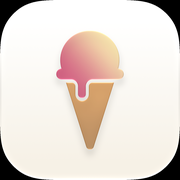
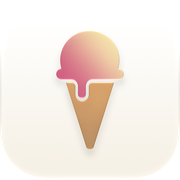
Tela de entrada obrigatória (entrar/criar conta) antes de qualquer tela; ícones voltam a ter cantos transparentes

diff --git a/index.html b/index.html
@@ -24,8 +24,8 @@
   if (navigator.standalone || (window.matchMedia && matchMedia("(display-mode: standalone)").matches)) r.classList.add("instalado"); })();
 </script>
 <style>html.carregando #abas{visibility:hidden}</style>
-<link rel="stylesheet" href="css/estilo.css?v=20261121093730" />
-<link rel="stylesheet" href="css/app.css?v=20261121093730" />
+<link rel="stylesheet" href="css/estilo.css?v=20261123113658" />
+<link rel="stylesheet" href="css/app.css?v=20261123113658" />
 </head>
 <body class="ui">
 <header class="barra-topo">
@@ -46,6 +46,6 @@
   <a href="#/receitas" data-aba="receitas" aria-label="Receitas"><svg viewBox="0 0 21.6826 18.1462" fill="currentColor" aria-hidden="true"><path d="M0 16.5153C0 17.3065 0.526178 17.6154 1.1022 17.6154C1.43171 17.6154 1.7156 17.431 2.09476 17.1946C3.17233 16.4728 4.48846 16.0215 5.84047 16.0318C7.25589 16.0318 8.6506 16.5621 9.74525 17.6075C10.1741 17.9991 10.4808 18.1276 10.8413 18.1276C11.2019 18.1276 11.5211 17.997 11.9374 17.6075C13.0342 16.5663 14.4268 16.0318 15.8422 16.0318C17.1942 16.0215 18.5207 16.4728 19.5879 17.1946C19.9649 17.431 20.2509 17.6154 20.5887 17.6154C21.1565 17.6154 21.6826 17.3065 21.6826 16.5153L21.6826 3.26527C21.6826 3.09906 21.6681 2.96219 21.5684 2.79196C20.694 1.28248 18.4971-3.55271e-15 15.8008-3.55271e-15C13.6715-3.55271e-15 11.8298 0.841614 10.8413 2.04269C9.85289 0.841614 8.00907-3.55271e-15 5.88187-3.55271e-15C3.19593-3.55271e-15 0.988634 1.28248 0.114259 2.79196C0.0145711 2.96219 0 3.09906 0 3.26527ZM1.57069 15.6774L1.57069 3.47842C2.36628 2.33543 4.08458 1.56858 5.88187 1.56858C7.74146 1.56858 9.36369 2.34578 10.056 3.54514L10.056 15.848C9.06774 15.0503 7.50741 14.4529 5.88187 14.4529C4.18347 14.4529 2.60877 14.9354 1.57069 15.6774ZM11.6267 15.848L11.6267 3.54514C12.319 2.34578 13.9494 1.56858 15.8008 1.56858C17.596 1.56858 19.3267 2.33543 20.112 3.47842L20.112 15.6774C19.0842 14.9354 17.4992 14.4529 15.8008 14.4529C14.1752 14.4529 12.6231 15.0503 11.6267 15.848Z"/></svg><span>Receitas</span></a>
   <a href="#/biblioteca" data-aba="biblioteca" aria-label="Biblioteca"><svg viewBox="0 0 24.1253 22.2743" fill="currentColor" aria-hidden="true"><path d="M0 19.3516C0 20.853 0.723643 21.6018 2.22941 21.6018L15.5646 21.6018C17.0579 21.6018 17.7816 20.853 17.7816 19.3516L17.7816 2.23976C17.7816 0.746655 17.0579 0 15.5646 0L13.6512 0C12.1454 0 11.4218 0.746655 11.4218 2.23976L11.4218 6.13089C11.2017 6.06838 10.9525 6.03713 10.6802 6.03713L6.43277 6.03713C6.13984 6.03713 5.89062 6.06838 5.68089 6.13089L5.68089 4.946C5.68089 3.4529 4.9469 2.70624 3.46183 2.70624L2.22941 2.70624C0.723643 2.70624 0 3.4529 0 4.946ZM1.47754 19.2336L1.47754 5.06197C1.47754 4.48877 1.77429 4.17343 2.37854 4.17343L3.292 4.17343C3.9066 4.17343 4.20336 4.48877 4.20336 5.06197L4.20336 20.1242L2.37854 20.1242C1.77429 20.1242 1.47754 19.8171 1.47754 19.2336ZM5.68089 20.1242L5.68089 8.39497C5.68089 7.82177 5.97764 7.51467 6.5819 7.51467L10.5208 7.51467C11.1354 7.51467 11.4218 7.82177 11.4218 8.39497L11.4218 20.1242ZM12.8993 20.1242L12.8993 2.35784C12.8993 1.78464 13.2064 1.46719 13.8107 1.46719L15.4052 1.46719C16.0198 1.46719 16.3062 1.78464 16.3062 2.35784L16.3062 19.2336C16.3062 19.8171 16.0198 20.1242 15.4052 20.1242ZM6.55818 9.40411C6.55818 9.74819 6.81524 10.0135 7.17178 10.0135L9.95157 10.0135C10.2978 10.0135 10.5548 9.74819 10.5548 9.40411C10.5548 9.07037 10.2978 8.81543 9.95157 8.81543L7.17178 8.81543C6.81524 8.81543 6.55818 9.07037 6.55818 9.40411ZM6.55818 18.2244C6.55818 18.5685 6.81524 18.8338 7.17178 18.8338L9.95157 18.8338C10.2978 18.8338 10.5548 18.5685 10.5548 18.2244C10.5548 17.8928 10.2978 17.6357 9.95157 17.6357L7.17178 17.6357C6.81524 17.6357 6.55818 17.8928 6.55818 18.2244ZM18.6663 19.6317C18.8549 21.1102 19.6449 21.8092 21.13 21.5916L22.1509 21.4691C23.6463 21.2494 24.2601 20.4654 24.0922 18.9826L22.4154 4.37972C22.2474 2.90731 21.445 2.19593 19.9496 2.41561L18.9308 2.55057C17.425 2.762 16.8009 3.54393 16.977 5.03493ZM20.1107 19.3292L18.4649 4.97071C18.3944 4.39751 18.658 4.07584 19.2622 3.98459L19.9642 3.89314C20.5684 3.80189 20.8983 4.10689 20.9689 4.66763L22.6146 19.0283C22.6852 19.6118 22.4237 19.9314 21.8298 20.0226L21.1072 20.1141C20.5133 20.2053 20.1812 19.9128 20.1107 19.3292Z"/></svg><span>Biblioteca</span></a>
 </nav>
-<script type="module" src="js/app.js?v=20261121093730"></script>
+<script type="module" src="js/app.js?v=20261123113658"></script>
 </body>
 </html>

diff --git a/js/app.js b/js/app.js
@@ -8,21 +8,22 @@
   window.scrollTo = function(x, y){ rolaJanela.apply(null, arguments); if (typeof y === "number") document.body.scrollTop = y; };
 })();
 // Navegação do hub: cada área é uma "tela" escolhida pelo endereço (#/calculadora etc.).
-import { carrega, dados, salva, novoId } from "./dados.js?v=20261121093730";
-import { iniciaSync } from "./sync.js?v=20261121093730";
-import * as inicio from "./telas/inicio.js?v=20261121093730";
-import * as calculadora from "./telas/calculadora.js?v=20261121093730";
-import * as ingredientes from "./telas/ingredientes.js?v=20261121093730";
-import * as receitas from "./telas/receitas.js?v=20261121093730";
-import * as receita from "./telas/receita.js?v=20261121093730";
-import * as testes from "./telas/testes.js?v=20261121093730";
-import { icone, defineArmazemFotos } from "./visual.js?v=20261121093730";
-import * as loteTela from "./telas/lote.js?v=20261121093730";
-import * as estudo from "./telas/estudo.js?v=20261121093730";
-import * as ideias from "./telas/ideias.js?v=20261121093730";
-import * as ajustes from "./telas/ajustes.js?v=20261121093730";
-import * as biblioteca from "./telas/biblioteca.js?v=20261121093730";
-import * as guia from "./telas/guia.js?v=20261121093730";
+import { carrega, dados, salva, novoId } from "./dados.js?v=20261123113658";
+import { iniciaSync, situacao, aoMudar } from "./sync.js?v=20261123113658";
+import * as entrada from "./telas/entrada.js?v=20261123113658";
+import * as inicio from "./telas/inicio.js?v=20261123113658";
+import * as calculadora from "./telas/calculadora.js?v=20261123113658";
+import * as ingredientes from "./telas/ingredientes.js?v=20261123113658";
+import * as receitas from "./telas/receitas.js?v=20261123113658";
+import * as receita from "./telas/receita.js?v=20261123113658";
+import * as testes from "./telas/testes.js?v=20261123113658";
+import { icone, defineArmazemFotos } from "./visual.js?v=20261123113658";
+import * as loteTela from "./telas/lote.js?v=20261123113658";
+import * as estudo from "./telas/estudo.js?v=20261123113658";
+import * as ideias from "./telas/ideias.js?v=20261123113658";
+import * as ajustes from "./telas/ajustes.js?v=20261123113658";
+import * as biblioteca from "./telas/biblioteca.js?v=20261123113658";
+import * as guia from "./telas/guia.js?v=20261123113658";
 
 const TELAS = {
   "": inicio,
@@ -87,6 +88,17 @@ function direcao(atual){
 }
 
 function rota(){
+  // Sem login, só a tela de entrada: nenhuma outra tela abre.
+  const semLogin = !situacao().logado;
+  document.body.classList.toggle("sem-login", semLogin);
+  if (semLogin){
+    if (typeof limpa === "function") limpa(); limpa = null;
+    anterior = null; rota.ultimo = null;
+    elTela.innerHTML = ""; elTitulo.hidden = true; elVoltar.hidden = true;
+    document.title = "Ice Cream Lab";
+    entrada.render(elTela);
+    return;
+  }
   const partes = location.hash.replace(/^#\/?/, "").split("/");
   const nome = partes[0] || "";
   const args = partes.slice(1);
@@ -253,6 +265,9 @@ carrega();
 })();
 iniciaSync();
 window.addEventListener("hashchange", rota);
+// Entrou ou saiu da conta: troca entre a tela de entrada e o app.
+let logadoAntes = situacao().logado;
+aoMudar(function(s){ if (s.logado !== logadoAntes){ logadoAntes = s.logado; rota(); } });
 rota();
 // Primeira tela desenhada: mostra a barra de abas (escondida no index.html até aqui).
 requestAnimationFrame(function(){ document.documentElement.classList.remove("carregando"); });

diff --git a/js/telas/entrada.js b/js/telas/entrada.js
@@ -1,0 +1,38 @@
+// Entrada: tela obrigatória enquanto não há login. Entrar ou criar conta (Supabase, e-mail e senha).
+import { situacao, entrar, criarConta } from "../sync.js?v=20261123113658";
+
+function esc(s){ return String(s == null ? "" : s).replace(/[&<>"]/g, function(c){ return {"&":"&amp;","<":"&lt;",">":"&gt;",'"':"&quot;"}[c]; }); }
+
+export function render(el){
+  let modo = "entrar";
+  const desenha = function(){
+    const s = situacao(), criar = modo === "criar";
+    el.innerHTML =
+      '<div class="ui-tela entrada-tela">' +
+        '<img class="entrada-icone" src="icons/icon-192.png?v=5" alt="" width="96" height="96">' +
+        '<h1 class="entrada-titulo">Ice Cream Lab</h1>' +
+        '<p class="ui-sec entrada-sub">' + (criar ? 'Crie sua conta para começar.' : 'Entre na sua conta para continuar.') + '</p>' +
+        '<form class="ui-cartao ui-vidro entrada-cartao" novalidate>' +
+          '<input id="email" class="ui-campo campo-branco" type="email" autocomplete="username" inputmode="email" autocapitalize="off" placeholder="E-mail" aria-label="E-mail" required>' +
+          '<input id="senha" class="ui-campo campo-branco" type="password" autocomplete="' + (criar ? 'new-password' : 'current-password') + '" minlength="6" placeholder="Senha' + (criar ? ' (mínimo 6 caracteres)' : '') + '" aria-label="Senha" required>' +
+          '<span class="ui-sec ajustes-erro" id="erro"' + (s.erro ? '' : ' hidden') + '>' + esc(s.erro || "") + '</span>' +
+          '<button type="submit" class="ui-botao preto entrada-botao">' + (criar ? 'Criar conta' : 'Entrar') + '</button>' +
+        '</form>' +
+        '<button type="button" class="ui-botao vidro entrada-troca" id="troca">' + (criar ? 'Já tenho conta' : 'Criar conta') + '</button>' +
+      '</div>';
+    const f = el.querySelector("form"), elE = el.querySelector("#email"), elS = el.querySelector("#senha"), elErro = el.querySelector("#erro");
+    const mostra = function(t){ elErro.textContent = t; elErro.hidden = false; };
+    f.addEventListener("submit", async function(ev){
+      ev.preventDefault();
+      const email = elE.value.trim(), senha = elS.value;
+      if (!email){ elE.focus(); return; }
+      if (senha.length < 6){ mostra("A senha precisa ter pelo menos 6 caracteres."); elS.focus(); return; }
+      const b = f.querySelector("button"); b.disabled = true;
+      try { await (criar ? criarConta : entrar)(email, senha); }
+      catch (e) { mostra(e.message); b.disabled = false; }
+    });
+    el.querySelector("#troca").addEventListener("click", function(){ modo = criar ? "entrar" : "criar"; desenha(); });
+  };
+  desenha();
+  return {titulo:""};
+}

diff --git a/js/telas/ajustes.js b/js/telas/ajustes.js
@@ -1,12 +1,12 @@
 // Ajustes: conta (entrar/criar/sair), situação da sincronização e backup em arquivo.
-import { exportaBackup, importaBackup } from "../dados.js?v=20261121093730";
-import { situacao, aoMudar, entrar, criarConta, sair, sincroniza } from "../sync.js?v=20261121093730";
-import { confirma } from "../ui.js?v=20261121093730";
-import { toast } from "../app.js?v=20261121093730";
-import { dados, salva } from "../dados.js?v=20261121093730";
-import { capa, escolheCapa, icone } from "../visual.js?v=20261121093730";
-import { WIDGETS_BIBLIOTECA, capaBiblioteca } from "./biblioteca.js?v=20261121093730";
-import { WIDGETS_HOME, capaHome } from "./inicio.js?v=20261121093730";
+import { exportaBackup, importaBackup } from "../dados.js?v=20261123113658";
+import { situacao, aoMudar, entrar, criarConta, sair, sincroniza } from "../sync.js?v=20261123113658";
+import { confirma } from "../ui.js?v=20261123113658";
+import { toast } from "../app.js?v=20261123113658";
+import { dados, salva } from "../dados.js?v=20261123113658";
+import { capa, escolheCapa, icone } from "../visual.js?v=20261123113658";
+import { WIDGETS_BIBLIOTECA, capaBiblioteca } from "./biblioteca.js?v=20261123113658";
+import { WIDGETS_HOME, capaHome } from "./inicio.js?v=20261123113658";
 
 function esc(s){ return String(s == null ? "" : s).replace(/[&<>"]/g, function(c){ return {"&":"&amp;","<":"&lt;",">":"&gt;",'"':"&quot;"}[c]; }); }
 function hora(iso){ try { return new Date(iso).toLocaleString("pt-BR", {day:"2-digit", month:"short", hour:"2-digit", minute:"2-digit"}); } catch (e) { return ""; } }

diff --git a/js/telas/lote.js b/js/telas/lote.js
@@ -3,11 +3,11 @@
 //   2. Avaliar (horas depois, após maturar e endurecer): textura, dureza, doçura e nota, por toques.
 // Situações do lote: "em andamento" (preparando) → "aguardando" (falta avaliar) → "concluido".
 // Tudo é salvo a cada toque; se o app fechar, o lote volta onde parou. Tela acesa enquanto aberto.
-import { dados, salva, lote, receita, versao, versoesDe, ingrediente, excluiLote, passosPreparo } from "../dados.js?v=20261121093730";
-import { n, porUnidade, unidades, textoUnidades, qtdTexto } from "../calculo.js?v=20261121093730";
-import { confirma } from "../ui.js?v=20261121093730";
-import { atualizaVoltar } from "../app.js?v=20261121093730";
-import { icone, capa, aplicaTom, estrelasEscolha, DUREZA, DOCURA, docuraAtual, larguraOutro } from "../visual.js?v=20261121093730";
+import { dados, salva, lote, receita, versao, versoesDe, ingrediente, excluiLote, passosPreparo } from "../dados.js?v=20261123113658";
+import { n, porUnidade, unidades, textoUnidades, qtdTexto } from "../calculo.js?v=20261123113658";
+import { confirma } from "../ui.js?v=20261123113658";
+import { atualizaVoltar } from "../app.js?v=20261123113658";
+import { icone, capa, aplicaTom, estrelasEscolha, DUREZA, DOCURA, docuraAtual, larguraOutro } from "../visual.js?v=20261123113658";
 
 function esc(s){ return String(s == null ? "" : s).replace(/[&<>"]/g, function(c){ return {"&":"&amp;","<":"&lt;",">":"&gt;",'"':"&quot;"}[c]; }); }
 function hora(iso){ try { return new Date(iso).toLocaleTimeString("pt-BR", {hour:"2-digit", minute:"2-digit"}); } catch (e) { return ""; } }

diff --git a/js/telas/receita.js b/js/telas/receita.js
@@ -1,11 +1,11 @@
 // Página de uma receita: status, versões, modo de preparo e a receita pronta com escala.
 // Rotas: #/receita/<id> (versões e edição) e #/receita/<id>/pronta (para usar na bancada).
-import { dados, salva, receita, versao, versoesDe, excluiReceita, ingrediente, criaLote, passosPreparo } from "../dados.js?v=20261121093730";
-import { icone, capa, aplicaTom, estrelas, escolheCapa, DUREZA, DOCURA, docuraAtual, larguraOutro } from "../visual.js?v=20261121093730";
-import { confirma, LAPIS } from "../ui.js?v=20261121093730";
-import { atualizaVoltar } from "../app.js?v=20261121093730";
-import { resumoLote, cartaoLote, dataCurta as dataLote } from "./lote.js?v=20261121093730";
-import { calcula, NOMES_ESTILO, n, qtdTexto, porUnidade } from "../calculo.js?v=20261121093730";
+import { dados, salva, receita, versao, versoesDe, excluiReceita, ingrediente, criaLote, passosPreparo } from "../dados.js?v=20261123113658";
+import { icone, capa, aplicaTom, estrelas, escolheCapa, DUREZA, DOCURA, docuraAtual, larguraOutro } from "../visual.js?v=20261123113658";
+import { confirma, LAPIS } from "../ui.js?v=20261123113658";
+import { atualizaVoltar } from "../app.js?v=20261123113658";
+import { resumoLote, cartaoLote, dataCurta as dataLote } from "./lote.js?v=20261123113658";
+import { calcula, NOMES_ESTILO, n, qtdTexto, porUnidade } from "../calculo.js?v=20261123113658";
 
 function esc(s){ return String(s == null ? "" : s).replace(/[&<>"]/g, function(c){ return {"&":"&amp;","<":"&lt;",">":"&gt;",'"':"&quot;"}[c]; }); }
 function dataCurta(iso){

diff --git a/js/telas/estudo.js b/js/telas/estudo.js
@@ -1,11 +1,11 @@
 // Estudo (redesign): temas agrupados, trazidos do Notion e editáveis no app.
 // Rotas: #/estudo (todos, com busca), #/estudo/grupo/<grupo> (filtrado pela seção vinda da Biblioteca),
 // #/estudo/<id> (tema) e #/estudo/<id>/calculadora (aberto por um gráfico: o voltar leva à calculadora).
-import { dados, salva, paginaEstudo, originalEstudo } from "../dados.js?v=20261121093730";
-import { GRUPOS_ESTUDO } from "../estudo-base.js?v=20261121093730";
-import { mdParaHtml, confirma } from "../ui.js?v=20261121093730";
-import { icone, capa, aplicaTom } from "../visual.js?v=20261121093730";
-import { capaBiblioteca } from "./biblioteca.js?v=20261121093730";
+import { dados, salva, paginaEstudo, originalEstudo } from "../dados.js?v=20261123113658";
+import { GRUPOS_ESTUDO } from "../estudo-base.js?v=20261123113658";
+import { mdParaHtml, confirma } from "../ui.js?v=20261123113658";
+import { icone, capa, aplicaTom } from "../visual.js?v=20261123113658";
+import { capaBiblioteca } from "./biblioteca.js?v=20261123113658";
 
 function esc(s){ return String(s == null ? "" : s).replace(/[&<>"]/g, function(c){ return {"&":"&amp;","<":"&lt;",">":"&gt;",'"':"&quot;"}[c]; }); }
 function normal(t){ return String(t || "").normalize("NFD").replace(/[̀-ͯ]/g, "").toLowerCase(); }

diff --git a/js/telas/ingredientes.js b/js/telas/ingredientes.js
@@ -1,9 +1,9 @@
 // Ingredientes: lista editável. O que é editado aqui aparece no seletor da calculadora.
-import { dados, salva, ingrediente, ingredienteUsado, novoId } from "../dados.js?v=20261121093730";
-import { confirma } from "../ui.js?v=20261121093730";
-import { icone, capa, capaIngrediente, paletaIngrediente, aplicaTom, escolheCapa } from "../visual.js?v=20261121093730";
-import { TIPOS_ACUCAR, ING_BASE } from "../ingredientes-base.js?v=20261121093730";
-import { n } from "../calculo.js?v=20261121093730";
+import { dados, salva, ingrediente, ingredienteUsado, novoId } from "../dados.js?v=20261123113658";
+import { confirma } from "../ui.js?v=20261123113658";
+import { icone, capa, capaIngrediente, paletaIngrediente, aplicaTom, escolheCapa } from "../visual.js?v=20261123113658";
+import { TIPOS_ACUCAR, ING_BASE } from "../ingredientes-base.js?v=20261123113658";
+import { n } from "../calculo.js?v=20261123113658";
 
 function limpaUi(){ document.body.classList.remove("ui", "rec"); document.querySelectorAll(".ui-veu,.ui-folha").forEach(function(x){ x.remove(); }); }
 function esc(s){ return String(s == null ? "" : s).replace(/[&<>"]/g, function(c){ return {"&":"&amp;","<":"&lt;",">":"&gt;",'"':"&quot;"}[c]; }); }

diff --git a/js/telas/calculadora.js b/js/telas/calculadora.js
@@ -1,10 +1,10 @@
 // Calculadora: editor de mistura com balanço ao vivo.
 // Funciona sozinha: o rascunho aberto é salvo automaticamente a cada toque, sem precisar "salvar receita".
 import { calcula, ALVOS, ESCALA, ALVO_FP, ALVO_ESTAB, PRESETS, NOMES_ESTILO,
-         pontoCongelamento, avisos, n, nivelFaixa, porUnidade, unidades, passoUn } from "../calculo.js?v=20261121093730";
-import { icone, capa, aplicaTom } from "../visual.js?v=20261121093730";
-import { confirma, LAPIS } from "../ui.js?v=20261121093730";
-import { dados, salva, ingrediente, receita, versao, versoesDe, criaReceita, novaVersao, ingredientesMudados, snapshotDe } from "../dados.js?v=20261121093730";
+         pontoCongelamento, avisos, n, nivelFaixa, porUnidade, unidades, passoUn } from "../calculo.js?v=20261123113658";
+import { icone, capa, aplicaTom } from "../visual.js?v=20261123113658";
+import { confirma, LAPIS } from "../ui.js?v=20261123113658";
+import { dados, salva, ingrediente, receita, versao, versoesDe, criaReceita, novaVersao, ingredientesMudados, snapshotDe } from "../dados.js?v=20261123113658";
 
 function esc(s){ return String(s).replace(/[&<>"]/g, function(c){ return {"&":"&amp;","<":"&lt;",">":"&gt;",'"':"&quot;"}[c]; }); }
 

diff --git a/sw.js b/sw.js
@@ -1,11 +1,11 @@
 // Service worker: guarda o app no aparelho para funcionar sem internet.
 // Ao mudar qualquer arquivo do app, rode: python3 atualiza-versao.py
-const VERSAO = "icelab-20261121093730";
+const VERSAO = "icelab-20261123113658";
 const ARQUIVOS = [
   "./", "index.html", "manifest.json", "css/estilo.css", "css/app.css", "js/visual.js", "js/icones.js", "js/telas/guia.js", "js/telas/biblioteca.js",
   "js/app.js", "js/ui.js", "js/dados.js", "js/calculo.js", "js/ingredientes-base.js",
   "js/telas/inicio.js", "js/telas/calculadora.js", "js/telas/ingredientes.js",
-  "js/telas/receitas.js", "js/telas/testes.js", "js/telas/lote.js", "js/telas/estudo.js", "js/telas/ideias.js", "js/estudo-base.js", "js/sync.js", "js/telas/ajustes.js", "js/telas/receita.js",
+  "js/telas/receitas.js", "js/telas/testes.js", "js/telas/lote.js", "js/telas/estudo.js", "js/telas/ideias.js", "js/estudo-base.js", "js/sync.js", "js/telas/ajustes.js", "js/telas/entrada.js", "js/telas/receita.js",
   "icons/icon-192.png", "icons/favicon-32.png", "icons/favicon-64.png", "icons/icon-512.png", "icons/apple-touch-icon.png"
 ];
 

diff --git a/css/app.css b/css/app.css
@@ -1013,3 +1013,12 @@ body.est-capa .temas-lista .tema-bloco{background:var(--ui-vidro-escuro); border
 .home-continuar-seta{position:absolute; right:var(--ui-e3); top:var(--ui-e3)}
 .home-continuar-nome{display:-webkit-box; -webkit-box-orient:vertical; overflow:hidden; font-size:var(--ui-t-cartao); -webkit-line-clamp:1}
 .home-continuar .ui-sec{white-space:nowrap; overflow:hidden; text-overflow:ellipsis}
+
+/* Tela de entrada (sem login): sem barra de abas nem topo */
+body.sem-login #abas, body.sem-login .barra-topo{display:none}
+.entrada-tela{min-height:calc(100dvh - 120px); display:flex; flex-direction:column; justify-content:center; align-items:stretch; gap:var(--ui-e3); max-width:420px; margin:0 auto; padding-top:max(env(safe-area-inset-top), 24px)}
+.entrada-icone{align-self:center; width:96px; height:96px; border-radius:22px}
+.entrada-titulo{text-align:center; margin:0; font-size:28px}
+.entrada-sub{text-align:center; margin:0 0 var(--ui-e2)}
+.entrada-cartao{display:flex; flex-direction:column; gap:var(--ui-e3)}
+.entrada-botao, .entrada-troca{width:100%}

diff --git a/js/telas/inicio.js b/js/telas/inicio.js
@@ -1,9 +1,9 @@
 // Home (redesign): hub com blocos de cada área.
 // Para avaliar (se houver lote esperando) · Calculadora + Ideias/Ingredientes · Receitas (faixa lateral) · Estudo.
-import { dados, receita, versao, versoesDe } from "../dados.js?v=20261121093730";
-import { abreAjustes } from "./ajustes.js?v=20261121093730";
-import { dataCurta } from "./lote.js?v=20261121093730";
-import { icone, capa, tomVidro } from "../visual.js?v=20261121093730";
+import { dados, receita, versao, versoesDe } from "../dados.js?v=20261123113658";
+import { abreAjustes } from "./ajustes.js?v=20261123113658";
+import { dataCurta } from "./lote.js?v=20261123113658";
+import { icone, capa, tomVidro } from "../visual.js?v=20261123113658";
 
 function esc(s){ return String(s == null ? "" : s).replace(/[&<>"]/g, function(c){ return {"&":"&amp;","<":"&lt;",">":"&gt;",'"':"&quot;"}[c]; }); }
 function diasDesde(iso){ const d = Math.floor((Date.now() - new Date(iso).getTime()) / 86400000); return d <= 0 ? "hoje" : d === 1 ? "há 1 dia" : "há " + d + " dias"; }
